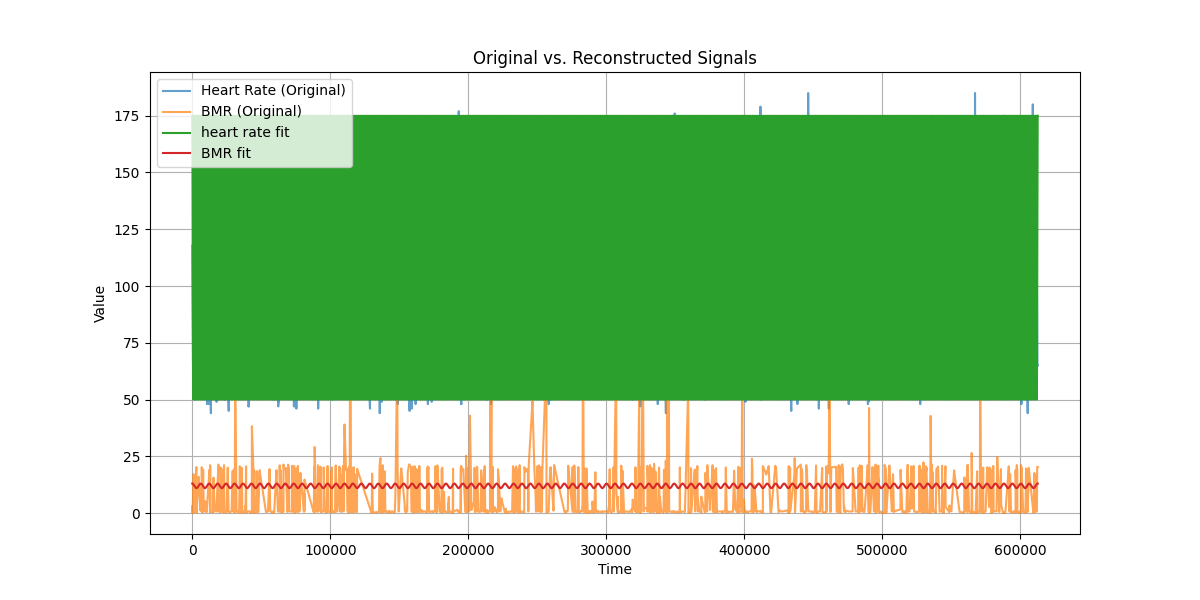
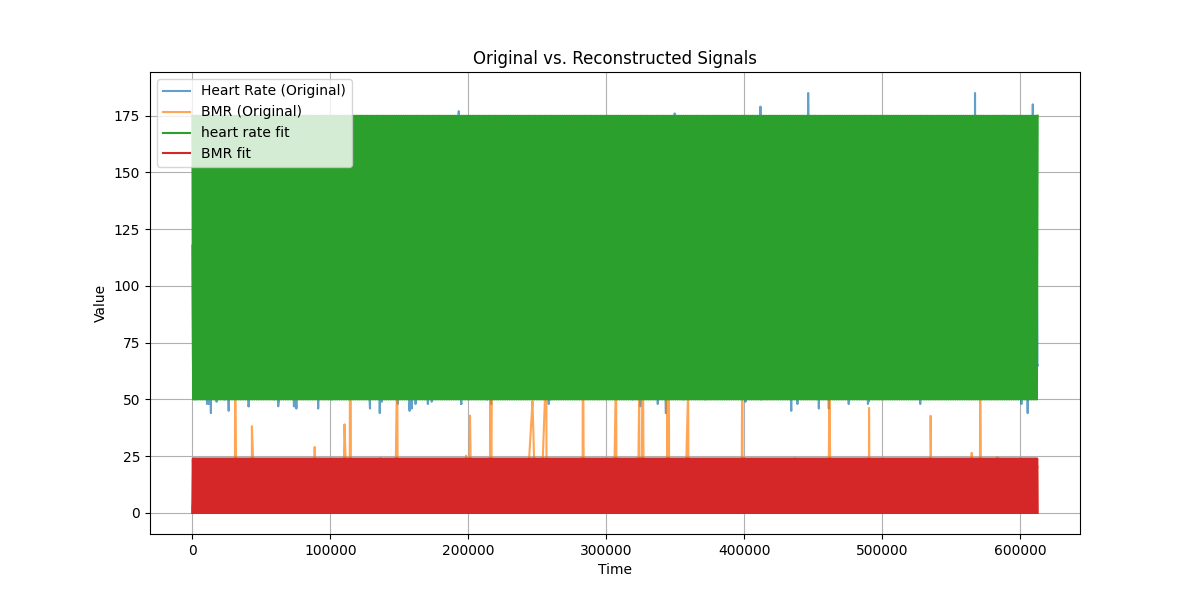
equations for f matrix finalized

Changed region(s): [[0.1542, 0.75, 0.8633, 0.87], [0.8633, 0.66, 0.8942, 0.69], [0.1233, 0.66, 0.1542, 0.69]]

diff --git a/CoreBodyTemp/f_deriv.py b/CoreBodyTemp/f_deriv.py
@@ -89,13 +89,15 @@ t = time
 #this is the estimated equation for heart rate 
 y = 62.5 * np.cos(2 * np.pi * f * t / N) + 112.5
 
+zero_crossings = np.where(heart_rate_shifted == 0)
 
 #pararmeters for basal metabolic rate
 N = len(time)
-f = 100
+f = 368
 t = time 
+
 #this is the estimate equation for heart rate 
-y_1 = np.abs(np.cos(2 * np.pi * f * t/N) + 12)
+y_1 = np.abs(24 * np.sin(2 * np.pi * f * t/N))
 # Plot the original and reconstructed signals
 plt.figure(figsize=(12, 6))
 plt.plot(time, processed_heart_rate, label="Heart Rate (Original)", alpha=0.7)
